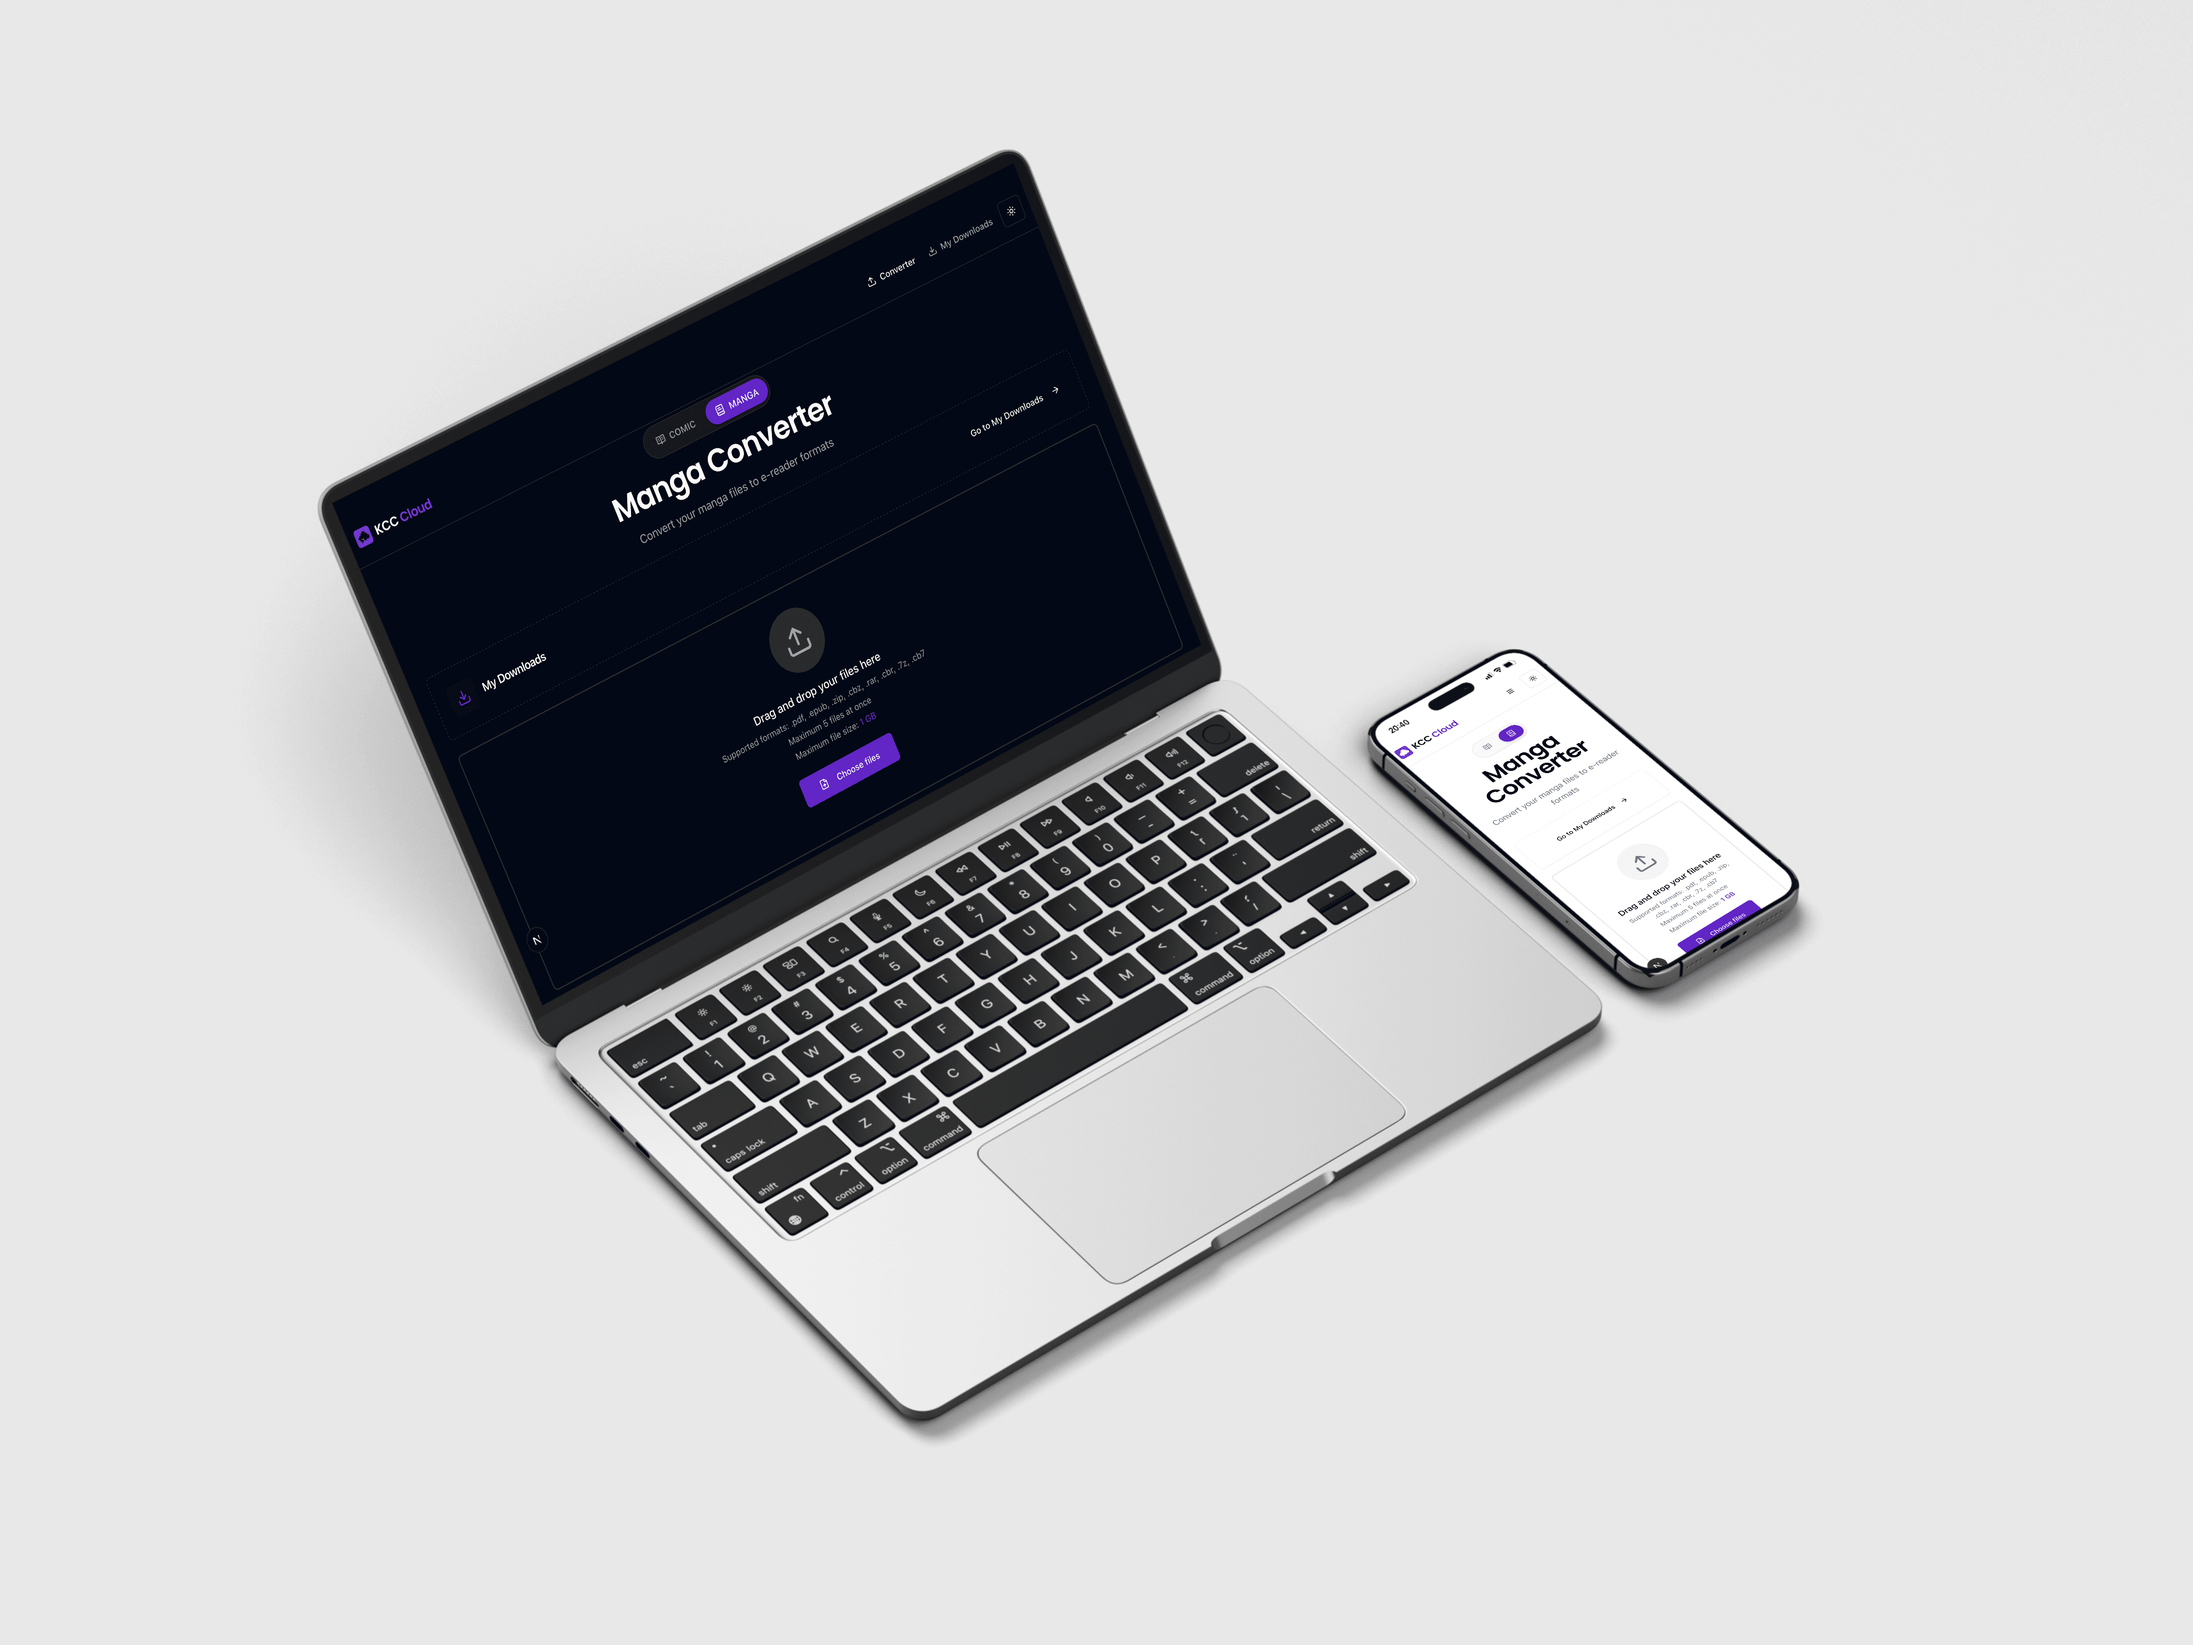
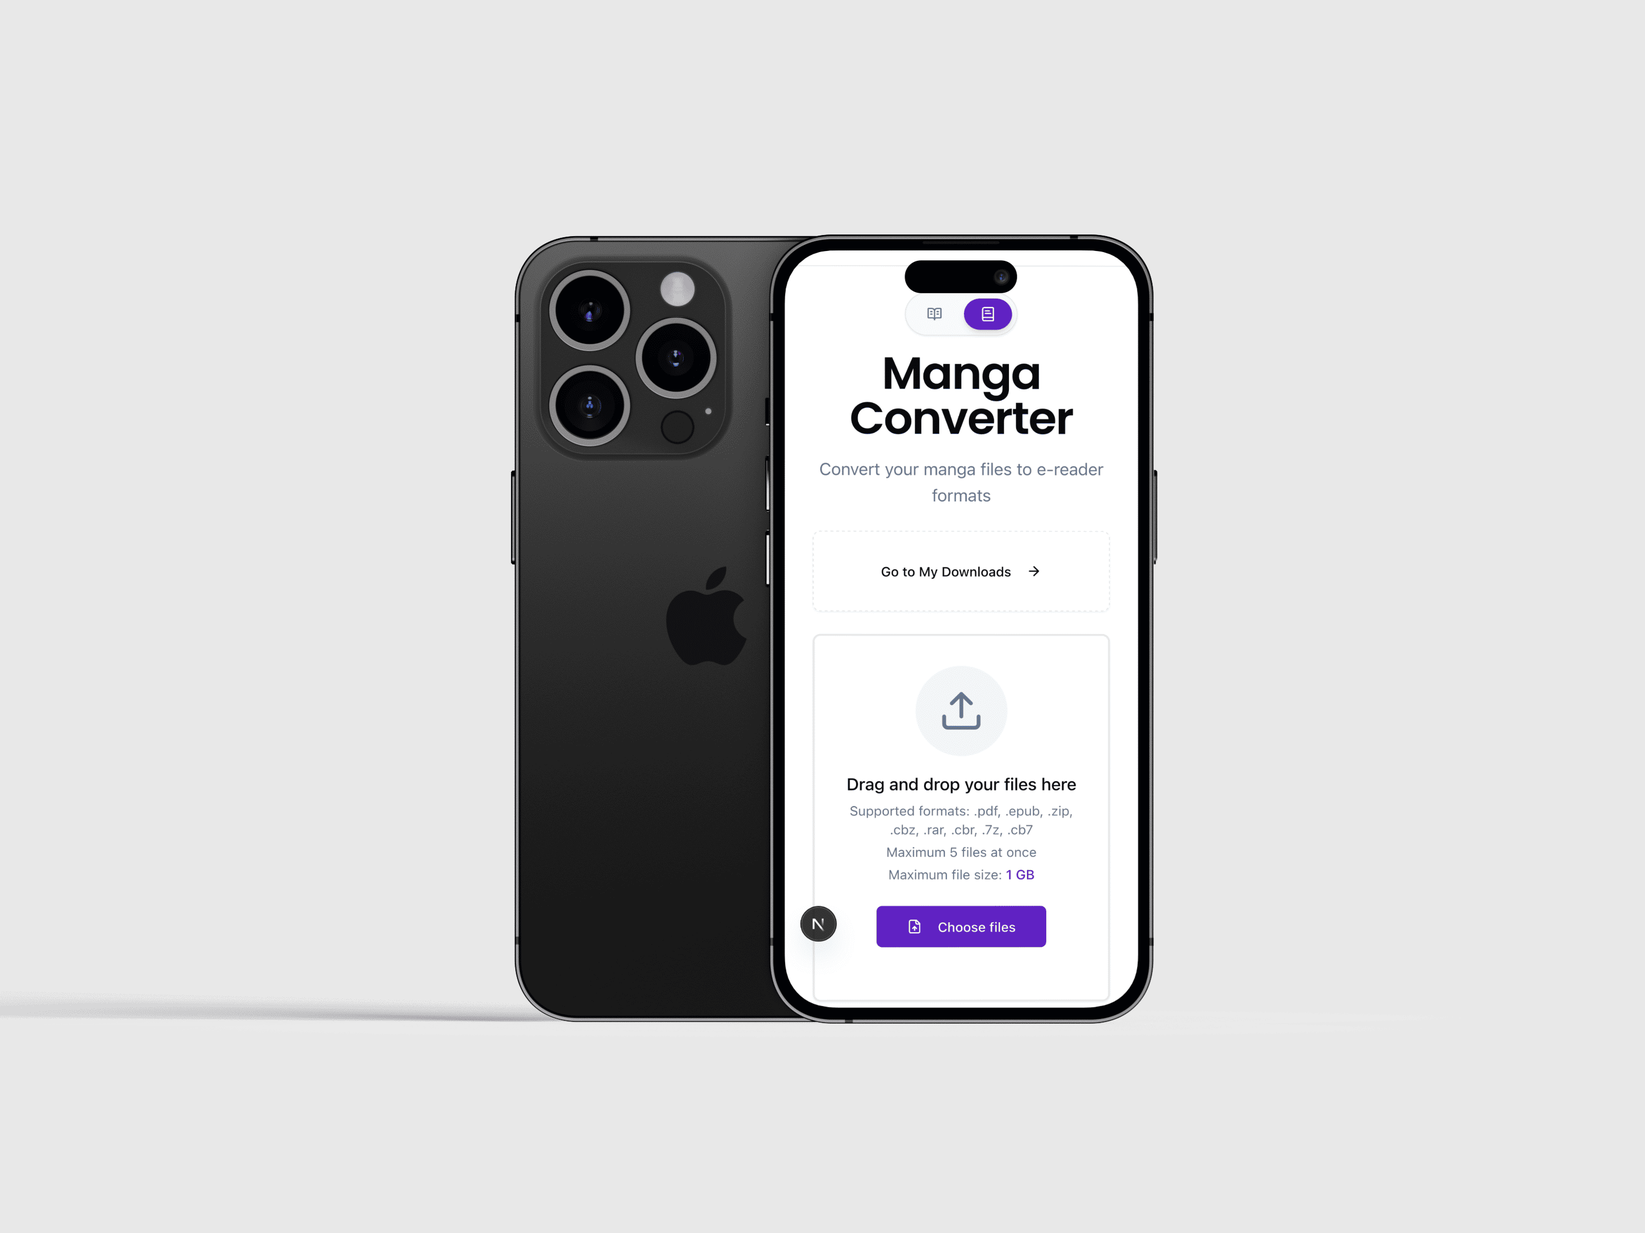
readme update

Changed region(s): [[0.124, 0.0933, 0.837, 0.8711]]

diff --git a/README.md b/README.md
@@ -51,7 +51,10 @@ KCC Cloud transforms your manga, comics, and documents into e-reader optimized f
 
 > **💡 Tip:** Works great on mobile too! Try uploading a file from your smartphone to see the responsive design in action.
 
-![Responsive Design](docs/images/screenshot-main-mobile.png)
+<p align="center">
+  <img src="docs/images/screenshot-main-mac.png" alt="Desktop View" width="48%" />
+  <img src="docs/images/screenshot-main-mobile.png" alt="Mobile View" width="48%" />
+</p>
 
 ### Built on KCC
 
